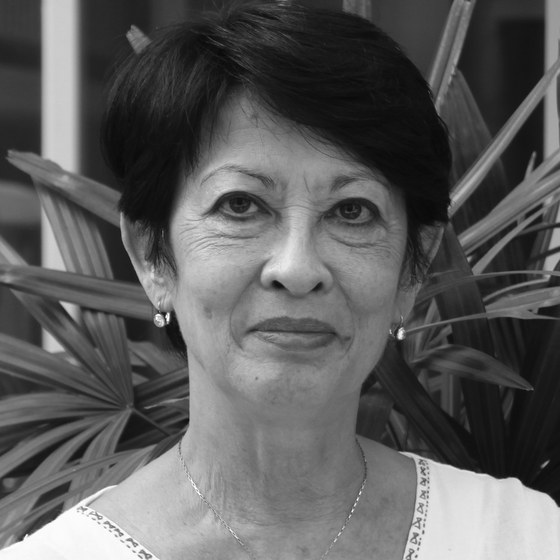
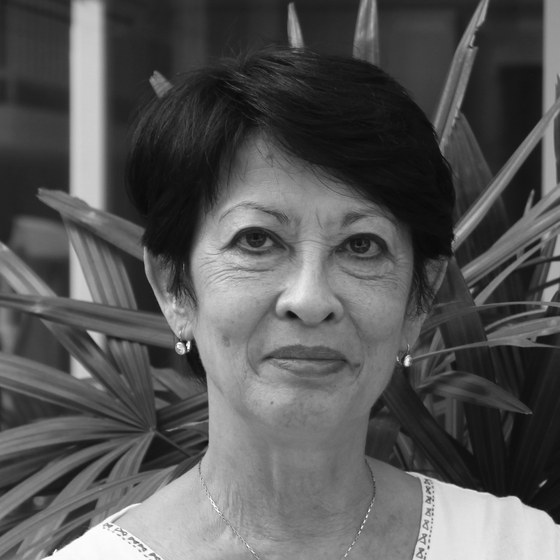
Samakee wash in brand purple at 0.30, and Isabella's portrait recut
Deploys elc-portal source e3c2f9b.

- The greeting wash is the deck's own colours again, not the black-ink version
  that read off brand. app.css gains ONE campus-scoped rule,
  body[data-campus="pe-samakee"] .spiral-art{opacity:0.30;filter:none;}, because
  at the spiral's 0.1 the purple measures as a hueless grey (11 to 13 levels of
  contrast whichever brand ink is used). filter:none drops --art-invert so dark
  mode does not turn the purple yellow-green. Every other .spiral-art on the site
  keeps 0.1: the City calendar and Thong Lor are byte-identical.
- Isabella's crop clipped the top of her head. Recut with headroom and framed
  against the existing team cards. The standard is now ADR-0012.

First app.css change since the v1.0 freeze, on Trevor's explicit yes in the
exchange (ADR-0010). CACHE v31 -> v32, required because both changed images were
already cached. Assembled CUTOVER=1 SKIP_PULL=1: the two PE calendar rows are
still parked on Neung or Sarah, so the calendar ships untouched again.

All gates green.

diff --git a/purple-elephant/samakee/index.html b/purple-elephant/samakee/index.html
@@ -64,15 +64,22 @@
        add-to-calendar as the main /calendar/ page. The rest are honest holding shells for the
        Purple Elephant team to populate. Public-safe. -->
   <main class="wrap sub pe">
-    <!-- Background wash, Samakee only (Trevor 2026-08-10, issue 0161): same .spiral-art slot and
-         treatment the City School and Thong Lor use for Giovanni's spiral, carrying this centre's
-         own greeting artwork instead. Trevor's call: subtle like the spiral, NOT a hero. Same
-         10% opacity, same desktop-only rule, so it grounds the page and never competes with the
-         title. Source = the Samakee parent deck cover (docs/sources/pe-samakee-info-deck.md), paper
-         texture keyed out to alpha so only the drawn marks wash in.
-         ⚠ Placeholder resolution: cut from the deck's flattened slide (344x286 real px). At 10%
-         opacity the softness does not read; Trevor's original file overwrites the same path. -->
-    <img class="spiral-art" src="../../assets/img/art/samakee-greeting.png" alt="" aria-hidden="true" loading="lazy" width="900" height="981">
+    <!-- Background wash, Samakee only (Trevor 2026-08-10, issue 0161): the .spiral-art slot the
+         City School and Thong Lor use for Giovanni's spiral, carrying this centre's own greeting
+         artwork instead. Trevor: subtle like the spiral, NOT a hero, and then: too faint and too
+         big, mimic the spiral's implementation exactly. So this asset is built to spiral.png's
+         spec rather than eyeballed: 1600x1120, mode LA, ink BLACK at full alpha with the .spiral-art
+         rule's opacity:0.1 doing all the fading. A pale asset at 10% double-fades, which is what
+         "too faint" was; a drawing scaled past the slot's crop line is what "too big" was. The
+         drawing is sized to the visible band (source y 686 to 1120, everything above is clipped by
+         top:-600px) so nothing is cut, and it sits at the top of the content area as the spiral does.
+         Measured against spiral.png, not guessed: 514 css px of visible ink vs its 836, mean
+         effective luminance 95 vs its 0 (its 0 is thin lines only; matching it exactly would turn
+         the elephant's filled body into a smudge).
+         Source = the Samakee parent deck cover (docs/sources/pe-samakee-info-deck.md), paper texture
+         keyed to alpha. ⚠ Cut from the deck's flattened slide (344x286 real px); Trevor's original
+         file replaces it, and the recipe above has to be re-run when it does. -->
+    <img class="spiral-art" src="../../assets/img/art/samakee-greeting.png" alt="" aria-hidden="true" loading="lazy" width="1600" height="1120">
     <div class="pe-hero">
       <div class="page-head">
         <span class="eyebrow">The Purple Elephant</span>

diff --git a/assets/app.css b/assets/app.css
@@ -1027,6 +1027,12 @@ a.doc-row:focus-visible{outline:2px solid var(--purple);outline-offset:-2px;bord
 .wrap.sub{position:relative;}
 .wrap.sub > :not(.spiral-art){position:relative;z-index:1;}
 .spiral-art{position:absolute;z-index:0;pointer-events:none;opacity:0.1;width:1400px;height:auto;max-width:none;left:6%;top:-600px;filter:var(--art-invert);}
+/* Samakee's wash is the centre's own COLOUR artwork, not Giovanni's grey spiral, and colour needs
+   more than 0.1 to still be colour: measured at 0.1 the purple is a hueless grey ghost. 0.30 is
+   Trevor's call, 2026-08-10, issue 0161, on a frozen surface (ADR-0010). Campus-scoped, so every
+   other .spiral-art keeps the spiral's 0.1 exactly. --art-invert is dropped here for the same
+   reason: inverting purple gives yellow-green, which is fine for grey line art and wrong for this. */
+body[data-campus="pe-samakee"] .spiral-art{opacity:0.30;filter:none;}
 /* Responsive (P4 pass A integration, Claude Code lane per the handback flag): the
    spiral placement above is desktop-tuned px. Below 900px the 1400px art overflows
    and the -600px top pulls it off the visible band, so hide it and let the hero

diff --git a/sw.js b/sw.js
@@ -20,7 +20,7 @@
    byte-comparing THIS FILE: leave it identical and reg.update() finds nothing, no
    controllerchange fires, and the update flow in render.js never runs. A themed-asset fix
    that changes only app.css would therefore never reach a family who does not navigate. */
-const CACHE = "elc-portal-shell-v31";
+const CACHE = "elc-portal-shell-v32";
 
 const SHELL = [
   "./",
